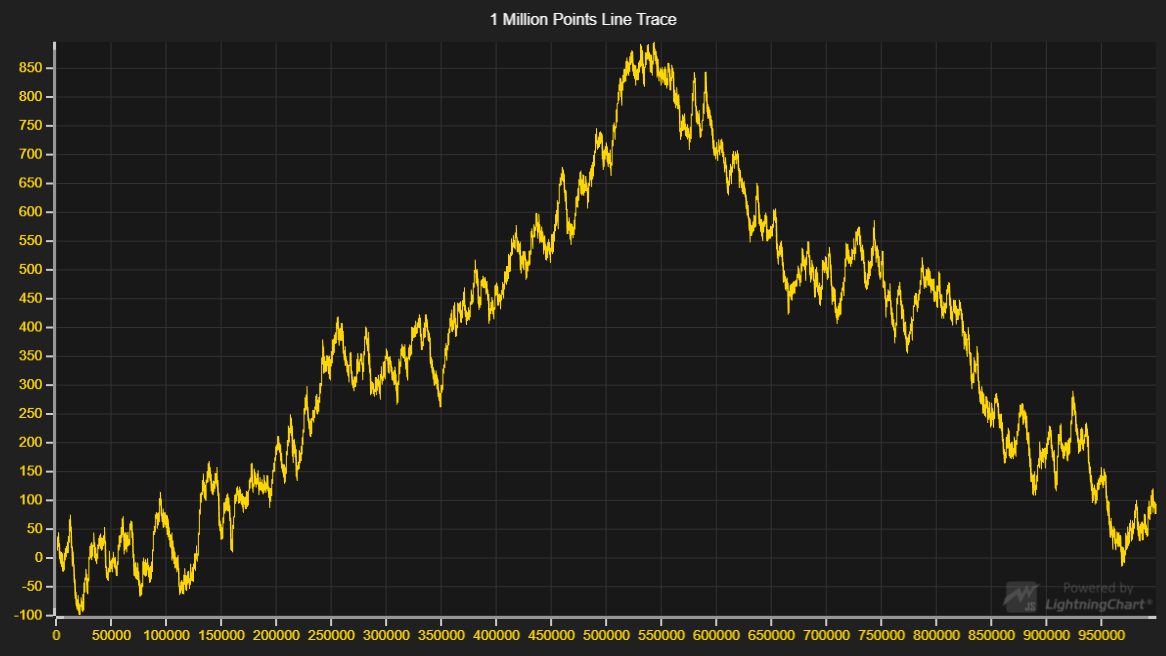
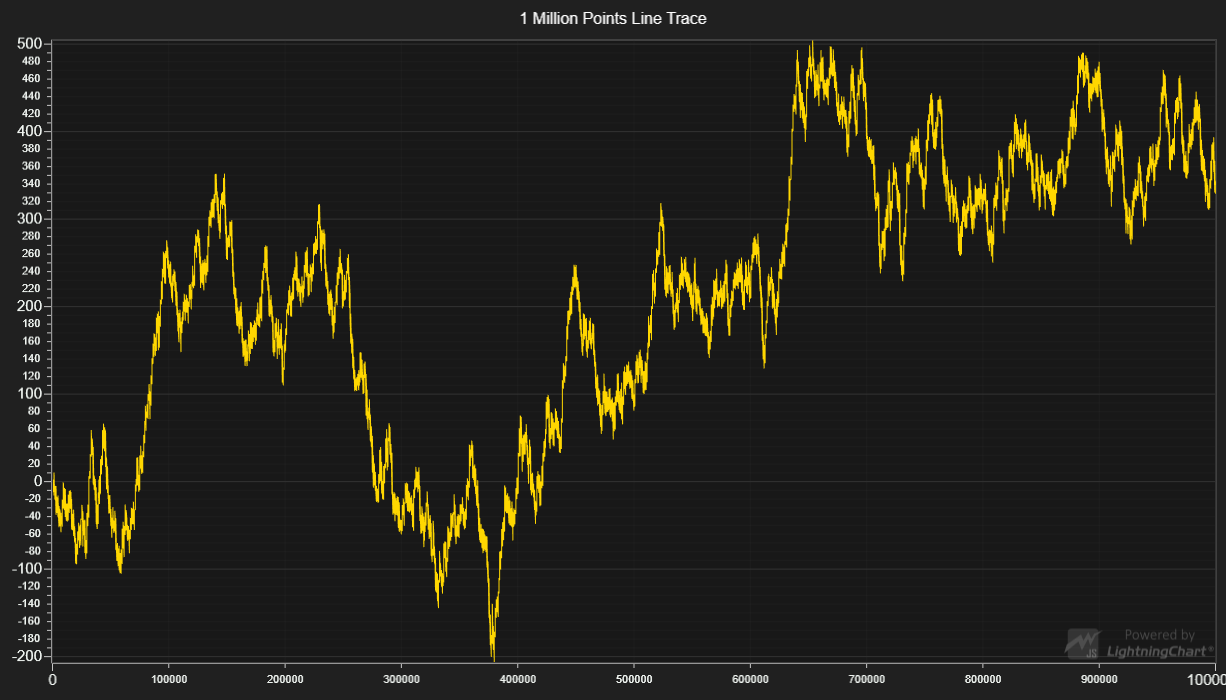
LCJS 2.0.0

diff --git a/src/index.js b/src/index.js
@@ -7,7 +7,8 @@ const lcjs = require('@arction/lcjs')
 // Extract required parts from LightningChartJS.
 const {
     lightningChart,
-    DataPatterns
+    DataPatterns,
+    Themes
 } = lcjs
 
 // Import data-generator from 'xydata'-library.
@@ -16,7 +17,9 @@ const {
 } = require('@arction/xydata')
 
 // Create a XY Chart.
-const chart = lightningChart().ChartXY()
+const chart = lightningChart().ChartXY({
+    // theme: Themes.dark
+})
     .setTitle('1 Million Points Line Trace')
 
 // Create progressive line series.

diff --git a/README.md b/README.md
@@ -88,11 +88,11 @@ For example
 
 ## API Links
 
-* XY cartesian chart: [ChartXY]
-* Scroll strategies: [AxisScrollStrategies]
-* Progressive line series: [ProgressiveLineSeries]
-* Data patterns: [DataPatterns]
-* Progressive trace data generator: [ProgressiveTraceGenerator]
+* [XY cartesian chart]
+* [Scroll strategies]
+* [Progressive line series]
+* [Data patterns]
+* [Progressive trace data generator]
 
 
 ## Support
@@ -116,9 +116,9 @@ Direct developer email support can be purchased through a [Support Plan][4] or b
 © Arction Ltd 2009-2020. All rights reserved.
 
 
-[ChartXY]: https://www.arction.com/lightningchart-js-api-documentation/v1.3.0/classes/chartxy.html
-[AxisScrollStrategies]: https://www.arction.com/lightningchart-js-api-documentation/v1.3.0/globals.html#axisscrollstrategies
-[ProgressiveLineSeries]: https://www.arction.com/lightningchart-js-api-documentation/v1.3.0/classes/progressivelineseries.html
-[DataPatterns]: https://www.arction.com/lightningchart-js-api-documentation/v1.3.0/globals.html#datapatterns
-[ProgressiveTraceGenerator]: https://arction.github.io/xydata/classes/progressivetracegenerator.html
+[XY cartesian chart]: https://www.arction.com/lightningchart-js-api-documentation/v2.0.0/classes/chartxy.html
+[Scroll strategies]: https://www.arction.com/lightningchart-js-api-documentation/v2.0.0/globals.html#axisscrollstrategies
+[Progressive line series]: https://www.arction.com/lightningchart-js-api-documentation/v2.0.0/classes/progressivelineseries.html
+[Data patterns]: https://www.arction.com/lightningchart-js-api-documentation/v2.0.0/globals.html#datapatterns
+[Progressive trace data generator]: https://arction.github.io/xydata/classes/progressivetracegenerator.html
 
